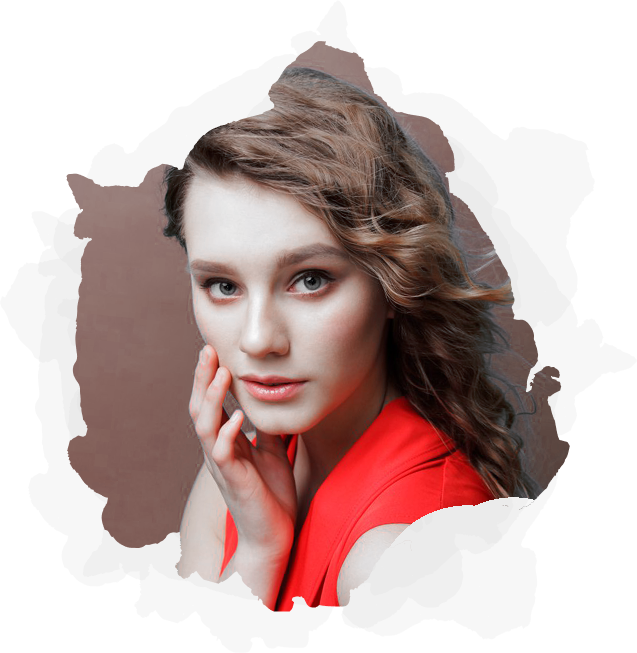
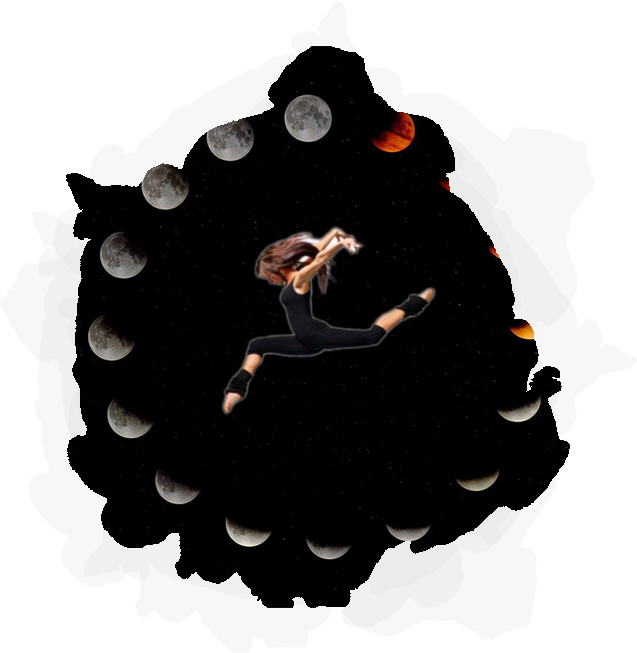
changed text and pics

diff --git a/index.html b/index.html
@@ -1,4 +1,4 @@
-{% set item = data['items']['merchant_beauty']['products'][0] %}
+{% set item = data['items']['khamyanova_n']['products'][0] %}
 
 <!DOCTYPE html>
 <html lang="ru">
@@ -17,9 +17,9 @@
 			<div class="layout-center-wrapper">
 				<div class="header__inner">
 					<div class="header__left">
-						<p class="header__author">Курс Ирины Козловской</p>
-						<h1 class="header__title">Beauty Guide. Путеводитель в мир макияжа и ухода за кожей</h1>
-						<p class="header__slogan">Выражай свою уникальность!
+						<p class="header__author">Курс Натальяи Хамьяновой</p>
+						<h1 class="header__title">Фитнес-курс "Разбуди тело" направлен на улучшение общей физической подготовки человека и формирование стройного, подтянутого тела. </h1>
+						<p class="header__slogan">Движение - это основа жизни.
 						</p>
 
 						<p class="header__date">{{data["event"]["date"]}}</p>
@@ -54,29 +54,34 @@
 				<ul class="audience__list">
 					<li class="audience__item">
 						<div class="audience__num"><span>1</span></div>
-						<p class="audience__text">Тинейджеры, которые хотят пробовать и экспериментировать без вреда для
-							кожи и перебора
+						<p class="audience__text">Для людей любого уровня подготовки.
 						</p>
 					</li>
 					<li class="audience__item">
 						<div class="audience__num"><span>2</span></div>
-						<p class="audience__text">Молодые мамы, чтобы сохранить и приумножить свою молодость и красоту,
-							быть частью женского сообщества
+						<p class="audience__text">Для тех, кто хочет выработать полезные привычки.
 						</p>
 					</li>
 					<li class="audience__item">
 						<div class="audience__num"><span>3</span></div>
-						<p class="audience__text">Мамы подростков, чтобы стать ближе и разбираться в трендах
+						<p class="audience__text">Для тех, кто хочет иметь подтянутое тело.
 						</p>
 					</li>
 					<li class="audience__item">
 						<div class="audience__num"><span>4</span></div>
-						<p class="audience__text">Женщины зрелого возраста, чтобы окунуться в свою вторую молодость
+						<p class="audience__text">Для тех, кто хочет ощутить подъем сил и энергии.
 						</p>
 					</li>
 					<li class="audience__item">
 						<div class="audience__num"><span>5</span></div>
-						<p class="audience__text">Бьютиблогеры и представители индустрии красоты
+						<p class="audience__text">Для тех, кому нужна поддержка квалифицированного тренера.
+
+						</p>
+					</li>
+					<li class="audience__item">
+						<div class="audience__num"><span>6</span></div>
+						<p class="audience__text">Для тех, кому нужны единомышленники, общение и поддержка.
+
 						</p>
 					</li>
 				</ul>
@@ -91,38 +96,33 @@
 					<ul class="knowledge__list">
 						<li class="knowledge__item">
 							<div class="knowledge__num"><span>1</span></div>
-							<p class="knowledge__text">Классификация косметики, их основные характеристики и
-								особенности. Разбор косметички
+							<p class="knowledge__text">Ежедневные тренировки на укрепление основных групп мышщ тела
 							</p>
 						</li>
 						<li class="knowledge__item">
 							<div class="knowledge__num"><span>2</span></div>
-							<p class="knowledge__text">Построение главных линий макияжа. Практические занятия по
-								дневному, деловому, лёгкому и антивозрастному макияжу</p>
+							<p class="knowledge__text">Кардиотренировки</p>
 						</li>
 						<li class="knowledge__item">
 							<div class="knowledge__num"><span>3</span></div>
-							<p class="knowledge__text">Создание ежедневных образов, опираясь на природную гамму и в
-								рамках поставленной задачи</p>
+							<p class="knowledge__text">Танцы</p>
 						</li>
 						<li class="knowledge__item">
 							<div class="knowledge__num"><span>4</span></div>
-							<p class="knowledge__text">Практические занятия по созданию самых популярных и модных
-								образов. Смоки айз, Голливудский макияж, классический вечерний макияж</p>
+							<p class="knowledge__text">Разбор техники выполнения упражнений</p>
 						</li>
 						<li class="knowledge__item">
 							<div class="knowledge__num"><span>5</span></div>
-							<p class="knowledge__text">Трансформация базового макияжа в вечерний и праздничный</p>
+							<p class="knowledge__text">Мотивация, полезная информация</p>
 						</li>
 						<li class="knowledge__item">
 							<div class="knowledge__num"><span>6</span></div>
-							<p class="knowledge__text">Обзор трендов в макияже, подбор косметики для его создания.
-								Разбор ошибок при выборе инструментов для макияжа</p>
+							<p class="knowledge__text">Рекомендации по питанию</p>
 						</li>
 					</ul>
 
 					<div class="knowledge__img-wrap">
-						<img src="img/about.jpg" alt="">
+						<img src="img/about.png" alt="">
 					</div>
 				</div>
 			</div>
@@ -133,7 +133,7 @@
 			<div class="layout-center-wrapper">
 				<div class="middle-title__inner">
 					<div>
-						<h1 class="middle-title__text">Beauty Guide. Путеводитель в мир макияжа и ухода за кожей</h1>
+						<h1 class="middle-title__text">Фитнес-курс ,,Разбуди тело"  направлен на улучшение общей физической подготовки человека и формирование стройного, подтянутого тела. </h1>
 					</div>
 
 					<button type="button" class="template-btn" id="middleToPaymentBtn">
@@ -169,15 +169,15 @@
 				<h3 class="coach-block__title">Автор и руководитель курса</h3>
 				<div class="coach-block__inner">
 					<div class="coach-block__img-wrap">
-						<img src="img/author.jpg" alt="">
+						<img src="img/author.png" alt="">
 					</div>
 
 					<div class="coach-block__desc-wrap">
-						<span class="coach-block__name">Ирина Козловская</span>
-						<p class="coach-block__text">Визажист международного уровня</p>
-						<p class="coach-block__text">Автор обучающих программ по макияжу для любителей и
-							профессиональных визажистов</p>
-						<p class="coach-block__text">Более 3000 клиентов, более 150 стали профессиональными визажистами
+						<span class="coach-block__name">Хамьянова Наталья Сергеевна</span>
+						<p class="coach-block__text">В фитнесе более 7 лет</p>
+						<p class="coach-block__text">Работаю в фитнес клубе 
+						</p>
+						<p class="coach-block__text">Как персонально, так и с группами, лично и онлайн
 						</p>
 					</div>
 				</div>
@@ -195,24 +195,25 @@
 					<ul class="footer__list">
 						<li class="footer__item">
 							<span class="footer__marker"></span>
-							<p class="footer__text">Основы грамотного ухода за кожей и принципов современного макияжа
+							<p class="footer__text">2 вебинара
 							</p>
 						</li>
 						<li class="footer__item">
 							<span class="footer__marker"></span>
-							<p class="footer__text">Вы поймете, как создаётся гармоничный образ, формируется стиль и
-								расставляются акценты</p>
+							<p class="footer__text">Видео-тренировки и тренировки-онлайн</p>
 						</li>
 						<li class="footer__item">
 							<span class="footer__marker"></span>
-							<p class="footer__text">Вы научитесь разбираться в косметике и создадите
-								больше десяти образов на любой случай
+							<p class="footer__text">Теоретический материал
 							</p>
 						</li>
 						<li class="footer__item">
 							<span class="footer__marker"></span>
-							<p class="footer__text">Расширите область своих навыков и знаний, если ваша профессия лежит
-								в сфере косметических продуктов</p>
+							<p class="footer__text">Рабочая тетрадь</p>
+						</li>
+						<li class="footer__item">
+							<span class="footer__marker"></span>
+							<p class="footer__text">Консультация и поддержка тренера</p>
 						</li>
 					</ul>
 				</div>
